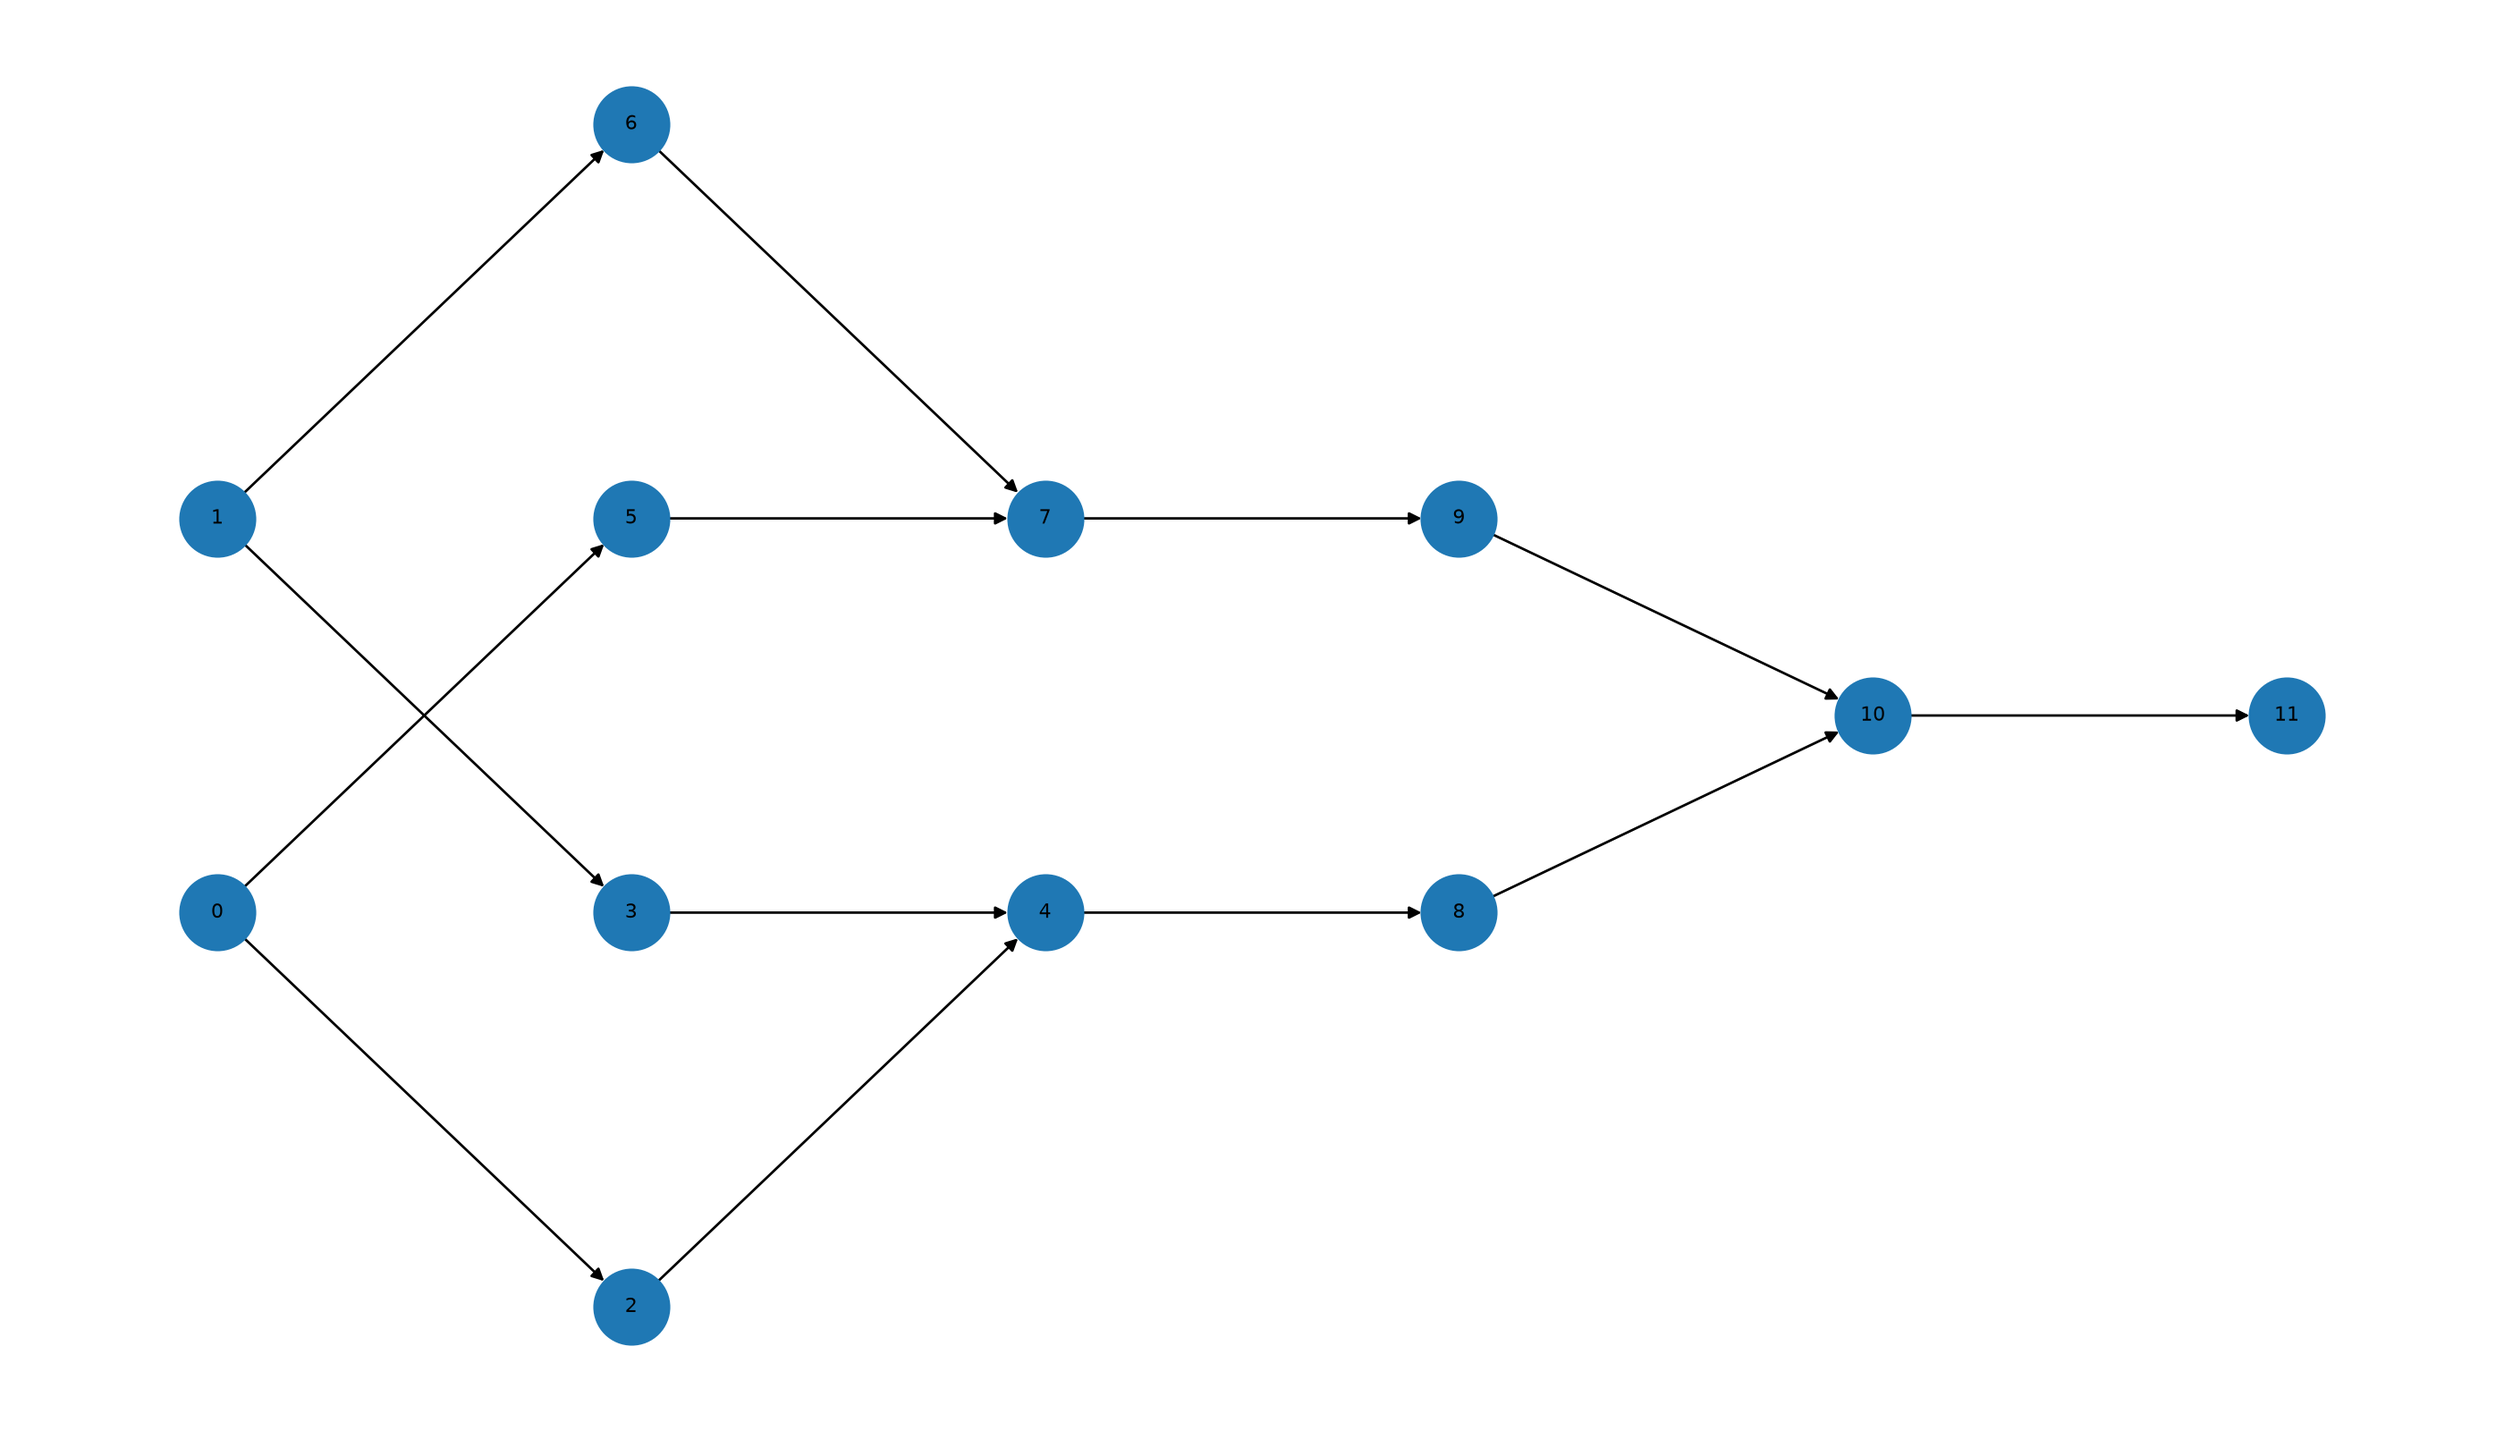
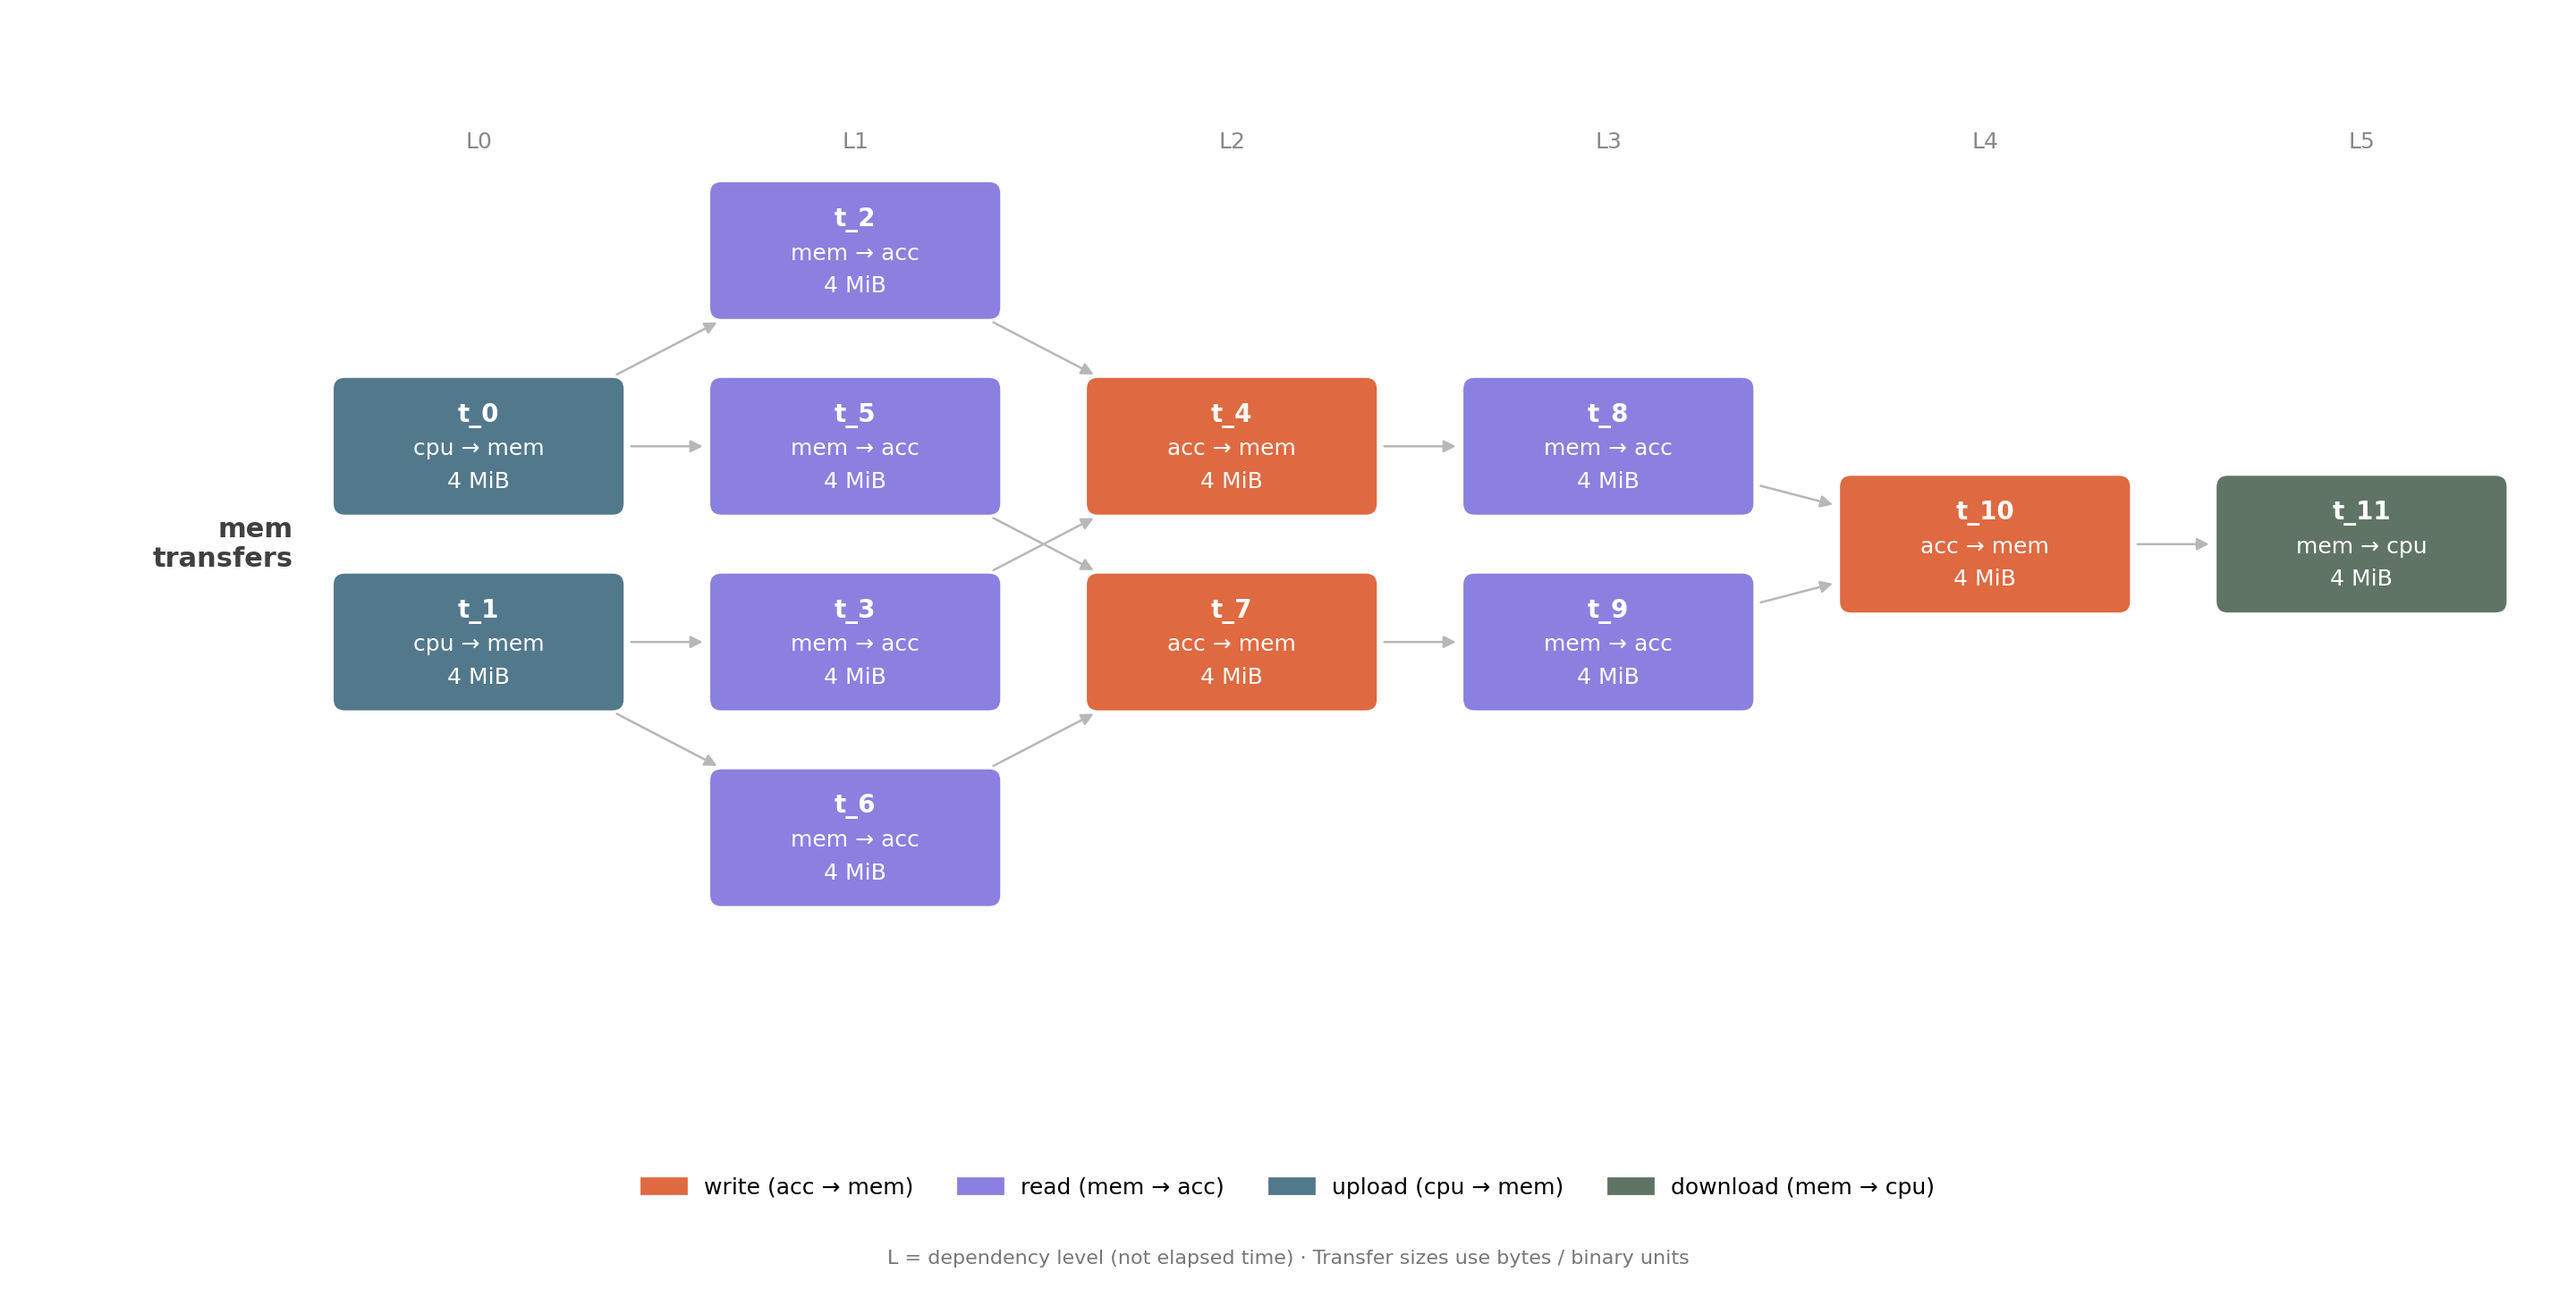
Render transfer graphs as labeled dependency lanes

diff --git a/flow_graph_networkx.py b/flow_graph_networkx.py
@@ -5,6 +5,7 @@ import os
 
 import matplotlib.pyplot as plt
 import networkx as nx
+from matplotlib.patches import FancyArrowPatch, FancyBboxPatch, Patch
 
 
 def print_to_terminal(g: nx.DiGraph) -> None:
@@ -12,26 +13,127 @@ def print_to_terminal(g: nx.DiGraph) -> None:
     print("Edges:", list(g.edges()))
 
 
+TRANSFER_COLORS = {
+    "write (acc -> mem)": "#df6940",
+    "read (mem -> acc)": "#8b80df",
+    "upload (cpu -> mem)": "#52788b",
+    "download (mem -> cpu)": "#607466",
+    "other transfer / compute": "#777777",
+}
+
+
+def endpoints(data):
+    return (str(data.get("src_comp", data.get("source_id", "?"))),
+            str(data.get("dest_comp", data.get("dest_id", "?"))))
+
+
+def component_kind(name):
+    return name.split("_", 1)[0]
+
+
+def transfer_category(data):
+    src, dst = map(component_kind, endpoints(data))
+    return {("acc", "mem"): "write (acc -> mem)",
+            ("mem", "acc"): "read (mem -> acc)",
+            ("cpu", "mem"): "upload (cpu -> mem)",
+            ("mem", "cpu"): "download (mem -> cpu)"}.get(
+                (src, dst), "other transfer / compute")
+
+
+def volume_label(value):
+    if value is None:
+        return "size unknown"
+    size = int(value)
+    # Exact binary units; do not label MiB as MB or round away small transfers.
+    for unit, factor in (("GiB", 1024**3), ("MiB", 1024**2), ("KiB", 1024)):
+        if size >= factor and size % factor == 0:
+            return f"{size // factor:,} {unit}"
+    return f"{size:,} B"
+
+
+def transfer_layout(g):
+    if not g or not nx.is_directed_acyclic_graph(g):
+        raise ValueError("Transfer rendering requires a nonempty directed acyclic graph")
+    layers = list(nx.topological_generations(g))
+    lane_for = {}
+    for node, data in g.nodes(data=True):
+        memories = sorted({e for e in endpoints(data) if component_kind(e) == "mem"})
+        lane_for[node] = " / ".join(memories) if memories else "other"
+    lanes = sorted(set(lane_for.values()))
+    pos, lane_centers = {}, {}
+    cursor = 0.0
+    for lane in lanes:
+        groups = [[n for n in layer if lane_for[n] == lane] for layer in layers]
+        capacity = max(map(len, groups))
+        center = cursor - (capacity - 1) * 0.78
+        lane_centers[lane] = center
+        for level, group in enumerate(groups):
+            def order(node):
+                ys = [pos[p][1] for p in g.predecessors(node) if p in pos]
+                return (-(sum(ys) / len(ys)) if ys else 0, str(node))
+            group.sort(key=order)
+            for row, node in enumerate(group):
+                pos[node] = (level * 3.0, center + ((len(group) - 1) / 2 - row) * 1.56)
+        cursor -= capacity * 1.56 + 1.2
+    return layers, pos, lane_centers
+
+
 def generate_figure(g: nx.DiGraph, filename: str, out_dir: str = "graph_img") -> str:
     os.makedirs(out_dir, exist_ok=True)
-
-    # For DAGs, use topological generations (clean layered flow layout).
-    if nx.is_directed_acyclic_graph(g):
-        for i, layer in enumerate(nx.topological_generations(g)):
-            for node in layer:
-                g.nodes[node]["subset"] = i
-        pos = nx.multipartite_layout(g, subset_key="subset")
-    else:
-        # Fallback for cyclic graphs.
-        pos = nx.spring_layout(g, seed=42)
-
-    plt.figure(figsize=(14, 8))
-    nx.draw(g, pos, with_labels=True, node_size=900, font_size=8, arrows=True)
+    layers, pos, lanes = transfer_layout(g)
+    ymin = min(y for x, y in pos.values())
+    ymax = max(y for x, y in pos.values())
+    fig, ax = plt.subplots(figsize=(max(8, len(layers) * 2.1 + 1.8),
+                                    max(4.5, (ymax - ymin) * 0.9 + 3)))
+    ax.set_xlim(-3.3, (len(layers) - 1) * 3 + 1.4)
+    ax.set_ylim(ymin - 1, ymax + 1.15)
+    ax.set_aspect("equal", adjustable="box")
+    ax.axis("off")
+    boxes = {}
+    for node, (x, y) in pos.items():
+        color = TRANSFER_COLORS[transfer_category(g.nodes[node])]
+        box = FancyBboxPatch((x - 1.12, y - 0.51), 2.24, 1.02,
+                             boxstyle="round,pad=0.035,rounding_size=0.09",
+                             facecolor=color, edgecolor="none", zorder=3)
+        ax.add_patch(box)
+        boxes[node] = box
+    for src, dst in g.edges():
+        x1, y1 = pos[src]
+        x2, y2 = pos[dst]
+        # Route edges that skip generations around intervening boxes.
+        curve = 0.16 if x2 - x1 > 3.1 else 0
+        ax.add_patch(FancyArrowPatch((x1, y1), (x2, y2), patchA=boxes[src],
+                                    patchB=boxes[dst], arrowstyle="-|>",
+                                    mutation_scale=10, linewidth=0.9,
+                                    color="#b7b7b7", shrinkA=3, shrinkB=3,
+                                    connectionstyle=f"arc3,rad={curve}", zorder=1))
+    for node, (x, y) in pos.items():
+        data = g.nodes[node]
+        src, dst = endpoints(data)
+        ax.text(x, y + 0.25, f"t_{node}", color="white", weight="bold",
+                fontsize=10, ha="center", va="center", zorder=4)
+        ax.text(x, y - 0.02, f"{src} → {dst}", color="white",
+                fontsize=9, ha="center", va="center", zorder=4)
+        ax.text(x, y - 0.28, volume_label(data.get("vol", data.get("vol_bytes"))),
+                color="white", fontsize=9, ha="center", va="center", zorder=4)
+    for level in range(len(layers)):
+        ax.text(level * 3, ymax + 0.87, f"L{level}", ha="center", va="center",
+                fontsize=9, color="#888888")
+    for lane, y in lanes.items():
+        ax.text(-1.48, y, f"{lane}\ntransfers", ha="right", va="center",
+                weight="bold", fontsize=11, color="#404040")
+    categories = {transfer_category(data) for _, data in g.nodes(data=True)}
+    handles = [Patch(color=color, label=label.replace("->", "→"))
+               for label, color in TRANSFER_COLORS.items() if label in categories]
+    fig.legend(handles=handles, loc="lower center", ncol=min(len(handles), 4),
+               frameon=False, fontsize=9, bbox_to_anchor=(0.5, 0.055))
+    fig.text(0.5, 0.02, "L = dependency level (not elapsed time) · Transfer sizes use bytes / binary units",
+             ha="center", fontsize=8, color="#777777")
+    fig.subplots_adjust(left=0.025, right=0.985, bottom=0.19, top=0.98)
 
     out_path = os.path.join(out_dir, f"{filename}.png")
-    plt.tight_layout()
-    plt.savefig(out_path, dpi=200)
-    plt.close()
+    fig.savefig(out_path, dpi=200, facecolor="white")
+    plt.close(fig)
     return out_path
 
 

diff --git a/workloads/TRANSFER_MODELS.md b/workloads/TRANSFER_MODELS.md
@@ -34,6 +34,14 @@ reports failures. JSON files already written remain available if rendering
 fails. Re-running replaces files with the same names; choose another
 `--out-dir` to keep a separate set.
 
+Images use left-to-right dependency levels (`L0`, `L1`, ...), memory lanes,
+and rounded boxes labeled with transfer ID, endpoints, and byte volume.
+Orange denotes accelerator writes; purple denotes accelerator reads. Host
+uploads and downloads use separate colors, identified in the legend. Units
+are exact bytes or binary units (KiB, MiB, GiB), not rounded decimal MB.
+Levels indicate dependencies, not elapsed time. Rendering does not add edges
+or change simulator inputs. This layout requires a nonempty DAG.
+
 Outputs are in `results/logical_transfers`. Use only `*_simulator.json` as
 simulator inputs. The files match the reference shape: `directed`,
 `multigraph`, empty `graph`, `nodes`, and `edges`. Nodes contain only `id`,
